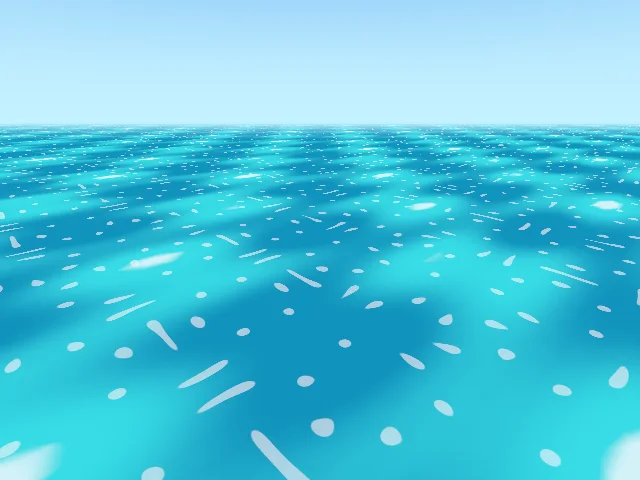
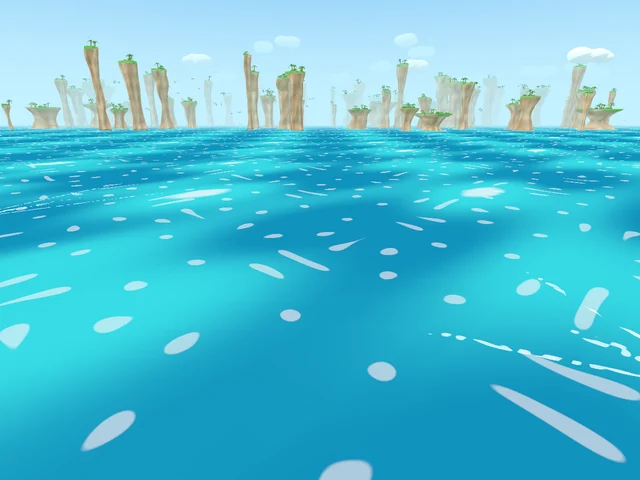
Shoot the tile's sea in the real bay with its skyline and a wake

diff --git a/style.css b/style.css
@@ -612,9 +612,10 @@ html[data-theme="dark"] .masthead-boat {
   height: auto;
 }
 
-/* The bay its own title screen races across, drawn by the game's own sea
-   shader and sky dome off a camera 55 units up, under the title screen's own
-   vignette. */
+/* The bay its own title screen races across, built from the game's own venue
+   code and photographed from out at sea, so the sea shader, the fogged island
+   skyline and a boat's wake are the game's. The title screen's own vignette
+   goes over it. */
 .tile-bb {
   padding: 4%;
   --tile:
